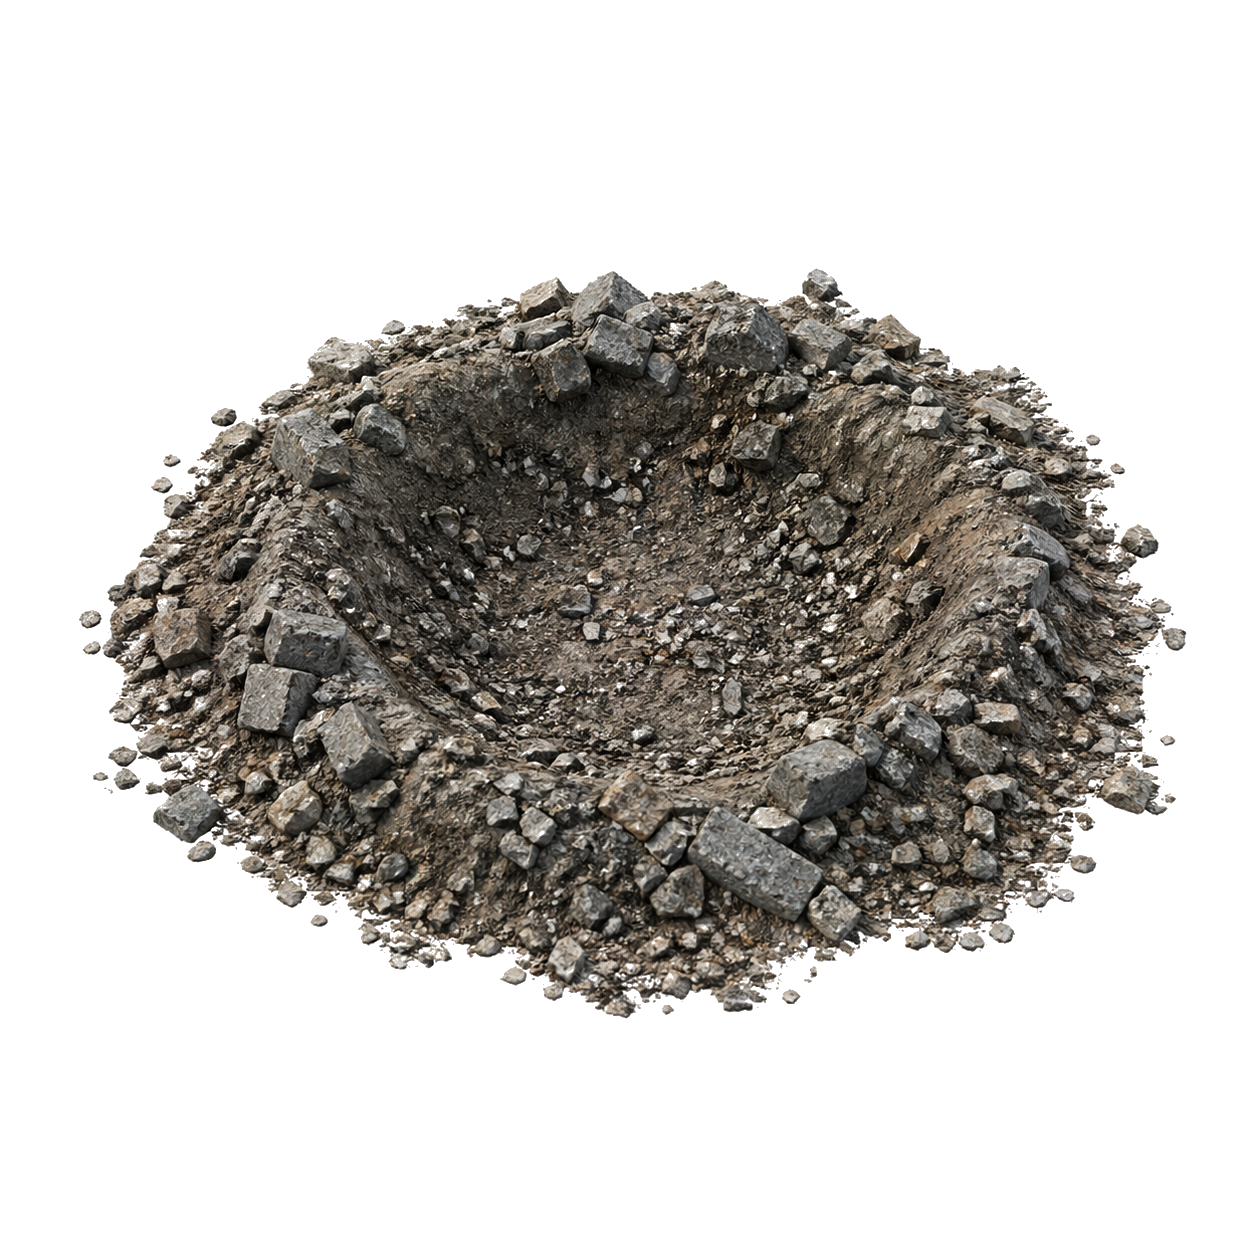
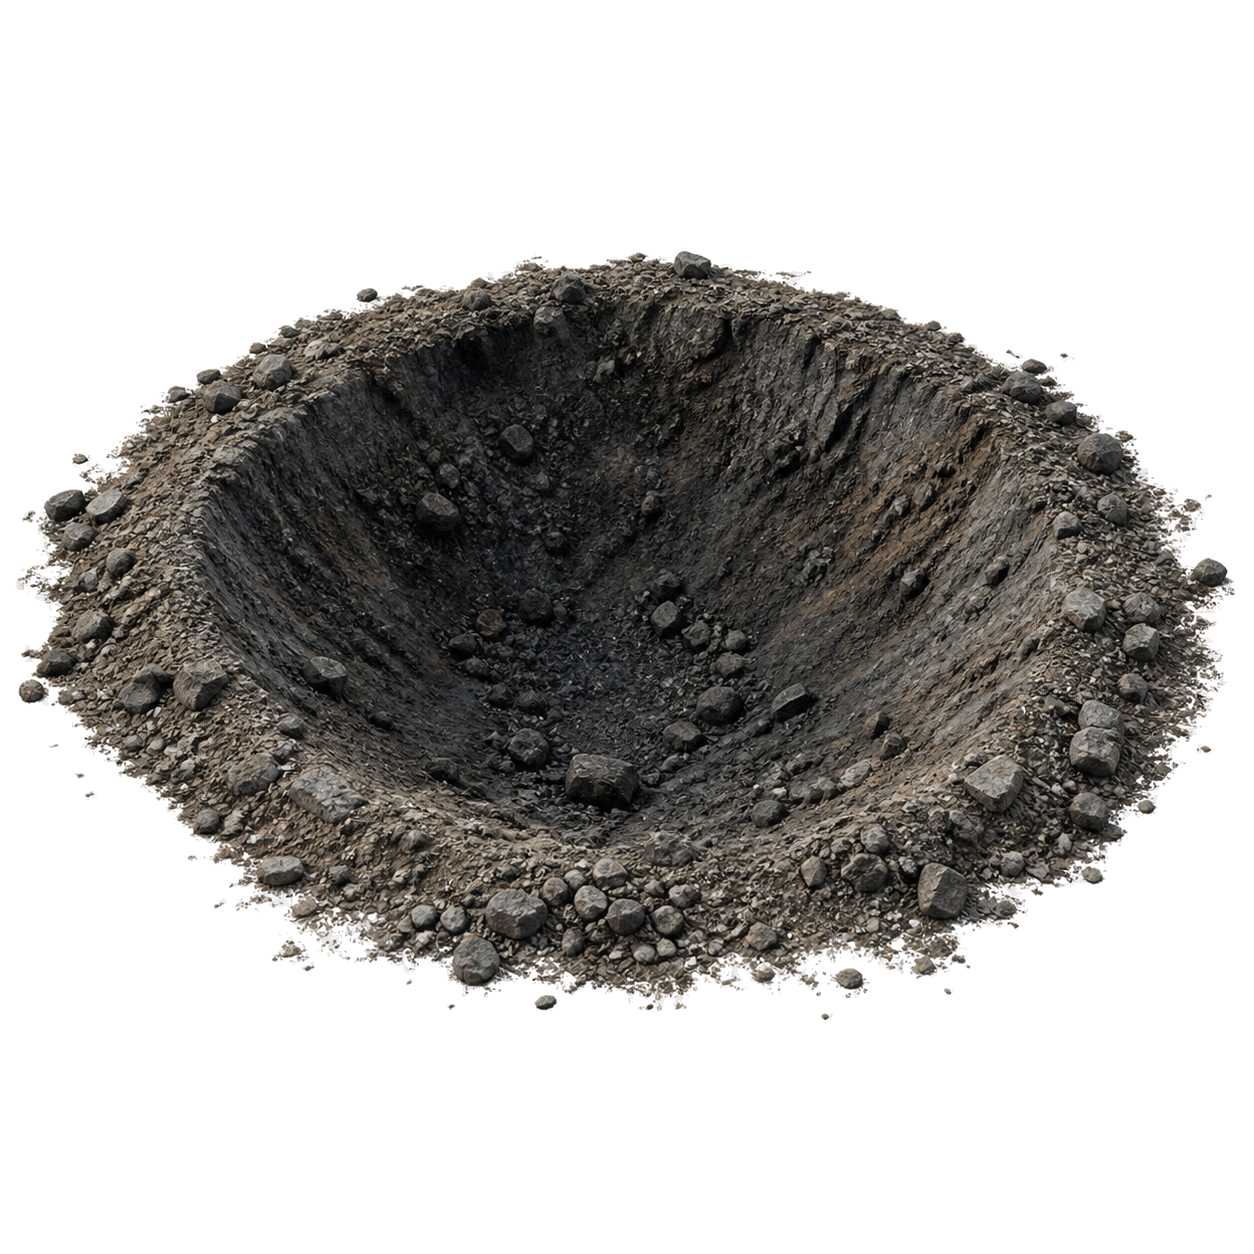
Kosmetik

diff --git a/src/definitions.h b/src/definitions.h
@@ -264,9 +264,9 @@ inline constexpr Uint32 GAS_CLOUD_ACTIVE_MS =
     GAS_CLOUD_TOTAL_LIFETIME_MS - GAS_CLOUD_FADE_MS;
 inline constexpr int GAS_CLOUD_MIN_PARTICLE_COUNT = 6;
 inline constexpr int GAS_CLOUD_MAX_PARTICLE_COUNT = 10;
-// Visual tuning: lower opacity and tighter spread of the green cloud.
-inline constexpr double GAS_CLOUD_OPACITY_SCALE = 0.55;
-inline constexpr double GAS_CLOUD_SPREAD_SCALE = 0.65;
+// Visual tuning of the blue monsters' green fart cloud.
+inline constexpr double GAS_CLOUD_OPACITY_SCALE = 1.05;
+inline constexpr double GAS_CLOUD_SPREAD_SCALE = 1.30;
 inline constexpr Uint32 BLUE_POTION_SPAWN_MIN_INTERVAL_MS = 20000;
 inline constexpr Uint32 BLUE_POTION_SPAWN_MAX_INTERVAL_MS = 60000;
 inline constexpr Uint32 BLUE_POTION_VISIBLE_MS = 15000;
@@ -514,14 +514,14 @@ inline constexpr float NUCLEAR_CRATER_RADIUS_CELLS =
     NUCLEAR_FIREBALL_PEAK_RADIUS_CELLS * 0.63f;
 inline constexpr float NUCLEAR_CRATER_Y_RADIUS_FACTOR = 0.78f;
 inline constexpr int NUCLEAR_CRATER_EDGE_SAMPLE_STEPS = 5;
-inline constexpr Uint8 NUCLEAR_CRATER_BASE_ALPHA = 83;
+inline constexpr Uint8 NUCLEAR_CRATER_BASE_ALPHA = 30;
 inline constexpr SDL_Color NUCLEAR_CRATER_OUTER_COLOR{54, 43, 36, 255};
 inline constexpr SDL_Color NUCLEAR_CRATER_INNER_COLOR{16, 14, 13, 255};
 inline constexpr SDL_Color NUCLEAR_CRATER_GLOW_COLOR{118, 70, 38, 255};
 inline constexpr Uint32 NUCLEAR_CRATER_REVEAL_DELAY_MS = 120;
 inline constexpr SDL_Color NUCLEAR_CRATER_GREEN_CLOUD_COLOR{86, 220, 92, 255};
 inline constexpr Uint8 NUCLEAR_CRATER_GREEN_CLOUD_PEAK_ALPHA = 24;
-inline constexpr float NUCLEAR_CRATER_GREEN_CLOUD_RADIUS_FACTOR = 1.55f;
+inline constexpr float NUCLEAR_CRATER_GREEN_CLOUD_RADIUS_FACTOR = 1.35f;
 inline constexpr Uint32 NUCLEAR_CRATER_GREEN_CLOUD_FADE_IN_MS = 350;
 // Total lifetime of the green crater cloud (visible + fade-out). Adjust
 // here to change how long the radioactive cloud persists.

diff --git a/src/renderer.cpp b/src/renderer.cpp
@@ -1112,8 +1112,9 @@ void Renderer::renderFrame(bool show_hud) {
   SDL_SetRenderDrawColor(sdl_renderer, COLOR_BACK, 255);
   SDL_RenderClear(sdl_renderer);
   if (ENABLE_3D_VIEW) {
-    drawmap3DBase();
+    drawmap3DFloors();
     drawNuclearCraters();
+    drawmap3DWallTops();
     drawWallRubble();
 
     if (map != nullptr) {
@@ -10385,8 +10386,17 @@ void Renderer::drawmap() {
   }
 
   if (ENABLE_3D_VIEW) {
-    drawmap3D();
+    drawmap3DFloors();
     drawNuclearCraters();
+    drawmap3DWallTops();
+    for (size_t u = 0; u < rows; ++u) {
+      for (size_t v = 0; v < cols; ++v) {
+        if (map->map_entry(u, v) != ElementType::TYPE_WALL) {
+          continue;
+        }
+        drawWallFrontFace3D(static_cast<int>(u), static_cast<int>(v));
+      }
+    }
     return;
   }
 
@@ -10731,6 +10741,26 @@ void Renderer::drawWallTile3D(int row, int col, bool has_wall_down) {
 }
 
 void Renderer::drawmap3DBase() {
+  drawmap3DFloors();
+  drawmap3DWallTops();
+}
+
+void Renderer::drawmap3DFloors() {
+  if (map == nullptr) {
+    return;
+  }
+
+  for (size_t u = 0; u < rows; ++u) {
+    for (size_t v = 0; v < cols; ++v) {
+      if (map->map_entry(u, v) == ElementType::TYPE_WALL) {
+        continue;
+      }
+      drawFloorTile3D(static_cast<int>(u), static_cast<int>(v));
+    }
+  }
+}
+
+void Renderer::drawmap3DWallTops() {
   if (map == nullptr) {
     return;
   }
@@ -10738,7 +10768,6 @@ void Renderer::drawmap3DBase() {
   for (size_t u = 0; u < rows; ++u) {
     for (size_t v = 0; v < cols; ++v) {
       if (map->map_entry(u, v) != ElementType::TYPE_WALL) {
-        drawFloorTile3D(static_cast<int>(u), static_cast<int>(v));
         continue;
       }
       drawWallTop3D(static_cast<int>(u), static_cast<int>(v));

diff --git a/src/renderer.h b/src/renderer.h
@@ -85,6 +85,8 @@ private:
   void drawmap();
   void drawmap3D();
   void drawmap3DBase();
+  void drawmap3DFloors();
+  void drawmap3DWallTops();
   void drawFloorTile3D(int row, int col);
   void drawWallTile3D(int row, int col, bool has_wall_down);
   void drawWallTop3D(int row, int col);
